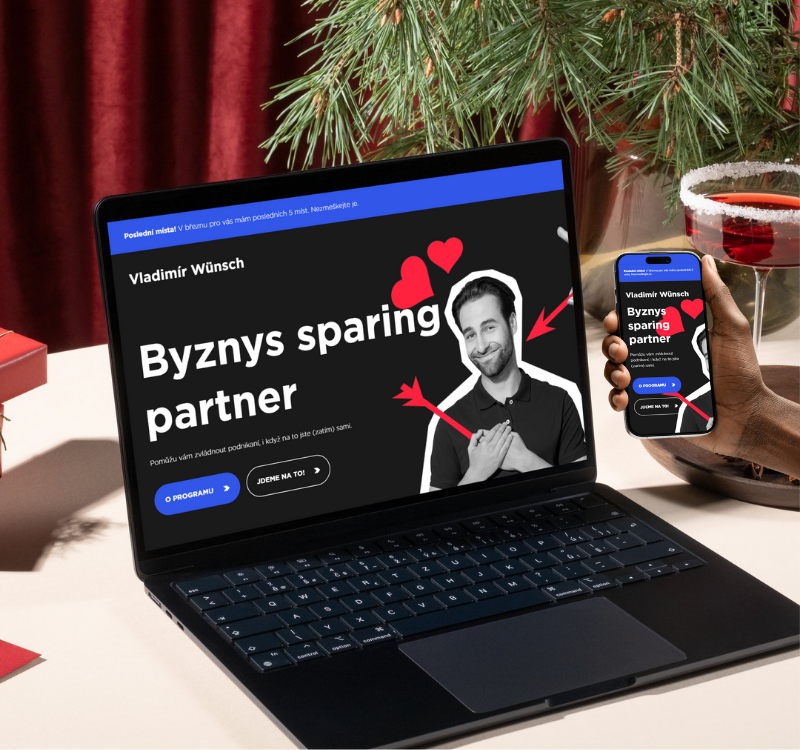
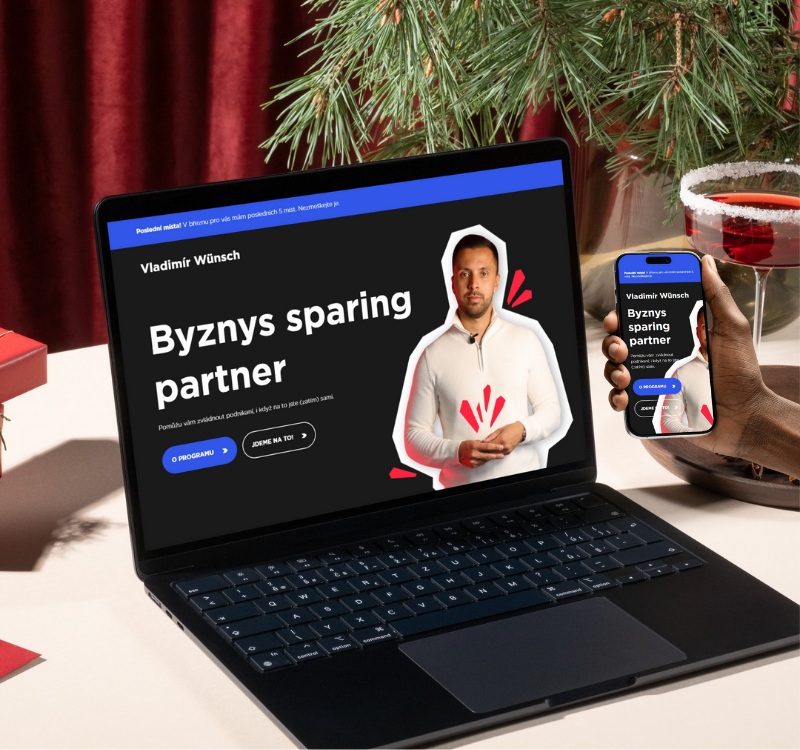
Refactor: Adjust right positioning of background element for improved layout

diff --git a/src/styles/layout.css b/src/styles/layout.css
@@ -90,7 +90,7 @@
     position: absolute;
     top: 0;
     bottom: 0;
-    right: -130%;
+    right: -110%;
     left: 0;
     z-index: -1;
 }
